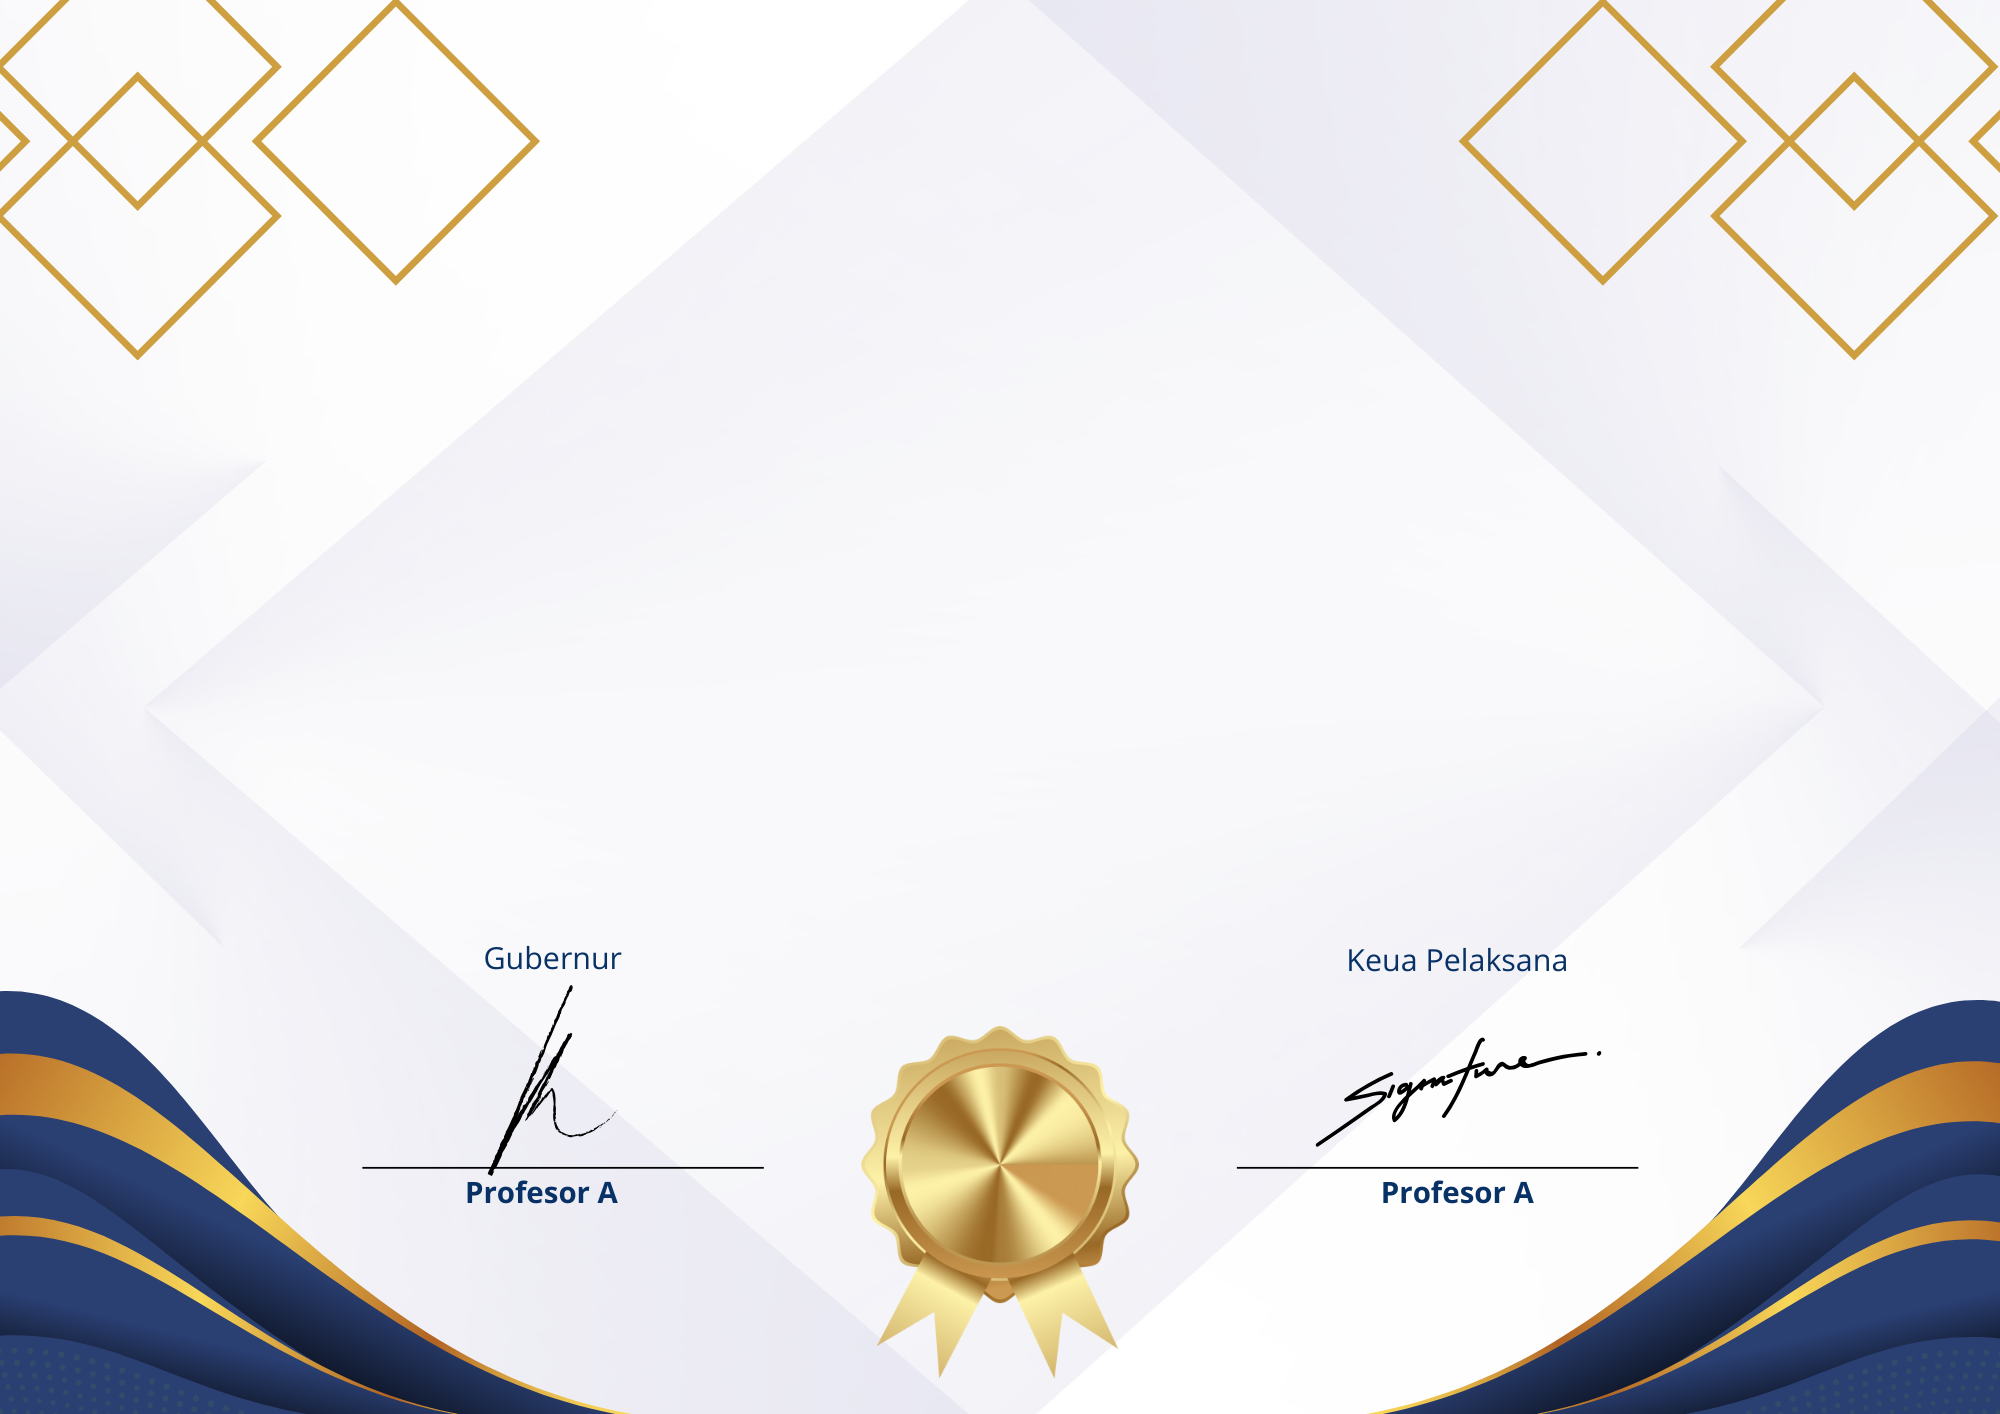
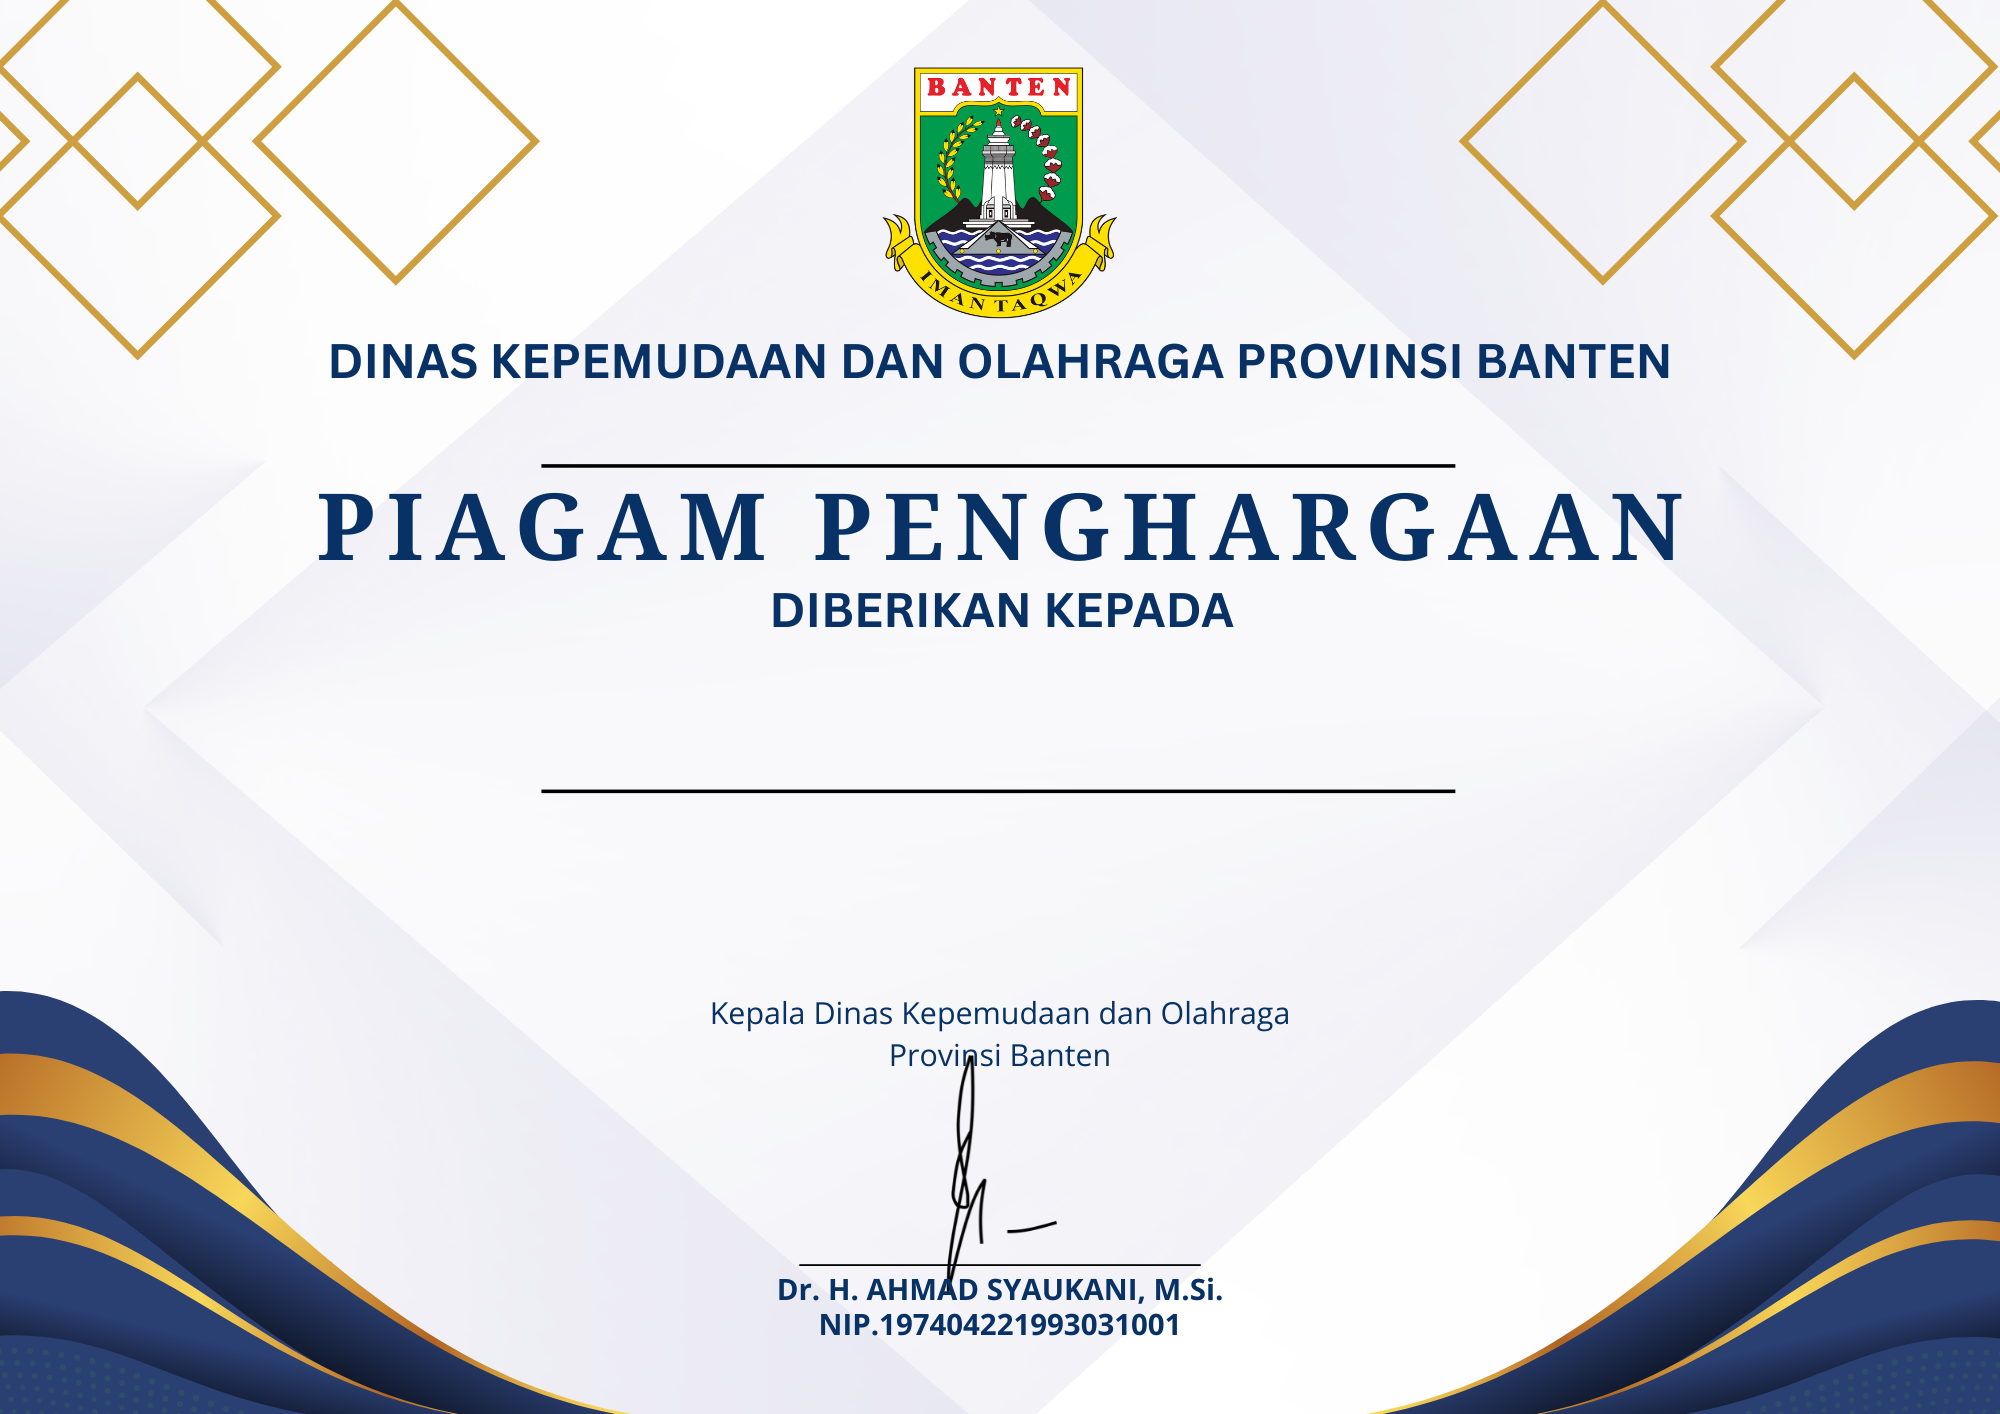
sertif

diff --git a/resources/views/sertifikat.blade.php b/resources/views/sertifikat.blade.php
@@ -63,7 +63,7 @@
         /* Header Section */
         .header {
             position: absolute;
-            top: 70px;
+            top: 237px;
             left: 50%;
             transform: translateX(-50%);
             z-index: 3;
@@ -79,12 +79,12 @@
             text-shadow: 2px 2px 4px rgba(0, 0, 0, 0.1);
         }
 
-        .header h2 {
-            font-size: 28px;
+        .header h3 {
+            font-size: 15px;
             margin-top: -10px;
-            font-weight: 400;
+            font-weight: 700;
             color: #1a365d;
-            letter-spacing: 4px;
+            letter-spacing: 1px;
             /* margin-bottom: 20px; */
         }
 
@@ -98,7 +98,7 @@
         /* Name Section */
         .name-section {
             position: absolute;
-            top: 300px;
+            top: 365px;
             left: 50%;
             transform: translateX(-50%);
             z-index: 3;
@@ -113,7 +113,7 @@
             display: flex;
             align-items: center;
             justify-content: center;
-            border-bottom: 2px solid #2d3748;
+            /* border-bottom: 2px solid #2d3748; */
         }
 
         .participant-name {
@@ -127,7 +127,25 @@
         /* Achievement Description */
         .achievement {
             position: absolute;
-            top: 400px;
+            top: 440px;
+            left: 50%;
+            transform: translateX(-50%);
+            z-index: 3;
+            text-align: center;
+            width: 70%;
+            font-size: 18px;
+            color: #2d3748;
+            line-height: 1.3;
+        }
+
+        .achievement-title {
+            font-weight: 600;
+            color: #1a365d;
+        }
+
+        .tgl-sertif {
+            position: absolute;
+            top: 500px;
             left: 50%;
             transform: translateX(-50%);
             z-index: 3;
@@ -136,11 +154,6 @@
             font-size: 18px;
             color: #2d3748;
             line-height: 1.8;
-        }
-
-        .achievement-title {
-            font-weight: 600;
-            color: #1a365d;
         }
 
         /* Signature Section */
@@ -195,38 +208,27 @@
 
         <!-- Header -->
         <div class="header">
-            <h1>SERTIFIKAT</h1>
-            <h2>PENGHARGAAN</h2>
             <h3>Nomor: XXX.X.X/Kep.XXX-Dispora/2025</h3>
-            <div class="given-to">Diberikan Kepada :</div>
         </div>
 
         <!-- Name Section -->
         <div class="name-section">
             <div class="name-display">
-                <div class="participant-name">suaib</div>
+                <div class="participant-name">Christiano Ronaldo</div>
             </div>
         </div>
 
         <!-- Achievement Description -->
         <div class="achievement">
-            Atas <span class="achievement-title">partisipasinya sebagai peserta dalam kegiatan </span><br>
-            <span class="achievement-title">ppan 2025</span>
+            <span class="achievement-title">Pemenang Pertama Pemuda Pelopor ( Bidang INOVASI TEKNOLOGI )</span><br>
+            Tingkat Provinsi Banten Tahun 2025
         </div>
 
-        <!-- Signature Section -->
-        {{-- <div class="signatures">
-            <div class="signature-box">
-                <div class="signature-text">Gubernur</div>
-                <div class="signature-line"></div>
-                <div class="signature-title">Nama</div>
-            </div>
-            <div class="signature-box">
-                <div class="signature-text">Ketua Panitia</div>
-                <div class="signature-line"></div>
-                <div class="signature-title">Nama</div>
-            </div>
-        </div> --}}
+        {{-- tgl sertif --}}
+        <div class="tgl-sertif">
+            Serang, 23 Agustus 2025
+        </div>
+
     </div>
 </body>
 
